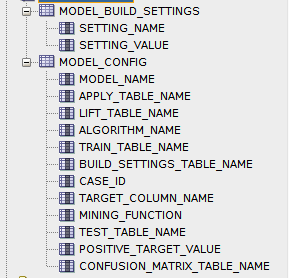
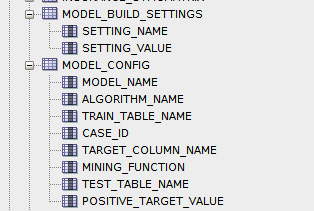
updates

Changed region(s): [[0.0623, 0.0, 0.9343, 0.9953], [0.0, 0.0, 0.0311, 1.0], [0.0623, 0.9668, 0.0934, 1.0]]

diff --git a/README.md b/README.md
@@ -104,23 +104,19 @@ end;
 
 execute immediate 'create table model_config ( '||
 'model_name				varchar2(100) '||
-', apply_table_name			varchar2(100) '||
-', lift_table_name			varchar2(100) '||
 ', algorithm_name			varchar2(100) '||
 ', train_table_Name			varchar2(100) '||
-', build_settings_table_name	varchar2(100) '||
 ', case_id				varchar2(100) '||
 ', target_column_name		VARCHAR2(100) '||
 ', mining_function			VARCHAR2(100) '||
 ', test_table_name			VARCHAR2(100) '||
-', positive_target_value		VARCHAR2(100) '||
-', confusion_matrix_table_name VARCHAR2(100))';
+', positive_target_value		VARCHAR2(100)) ';
 
-execute immediate 'insert into model_config values(''ALL_CASES_DT'',''ALL_CASES_APPLY_RESULT_DT'',''ALL_CASES_LIFT_DT'',''ALGO_DECISION_TREE'',''ALL_CASES_TRAIN_T'',''MODEL_BUILD_SETTINGS'',''INCIDENT_NUMBER'',''CATEGORIZATION_TIER_2'',''CLASSIFICATION'',''ALL_CASES'',''SW'',''ALL_CASES_CONFUSION_MATRIX_DT'')';
-execute immediate 'insert into model_config values(''ALL_CASES_SVM'',''ALL_CASES_APPLY_RESULT_SVM'',''ALL_CASES_LIFT_SVM'',''ALGO_SUPPORT_VECTOR_MACHINES'',''ALL_CASES_TRAIN_T'',''MODEL_BUILD_SETTINGS'',''INCIDENT_NUMBER'',''CATEGORIZATION_TIER_2'',''CLASSIFICATION'',''ALL_CASES'',''SW'',''ALL_CASES_CONFUSION_MATRIX_SVM'')';
-execute immediate 'insert into model_config values(''ALL_CASES_RF'',''ALL_CASES_APPLY_RESULT_RF'',''ALL_CASES_LIFT_RF'',''ALGO_RANDOM_FOREST'',''ALL_CASES_TRAIN_T'',''MODEL_BUILD_SETTINGS'',''INCIDENT_NUMBER'',''CATEGORIZATION_TIER_2'',''CLASSIFICATION'',''ALL_CASES'',''SW'',''ALL_CASES_CONFUSION_MATRIX_RF'')';
-execute immediate 'insert into model_config values(''ALL_CASES_NN'',''ALL_CASES_APPLY_RESULT_NN'',''ALL_CASES_LIFT_NN'',''ALGO_NEURAL_NETWORK'',''ALL_CASES_TRAIN_T'',''MODEL_BUILD_SETTINGS'',''INCIDENT_NUMBER'',''CATEGORIZATION_TIER_2'',''CLASSIFICATION'',''ALL_CASES'',''SW'',''ALL_CASES_CONFUSION_MATRIX_NN'')';
-execute immediate 'insert into model_config values(''ALL_CASES_NB'',''ALL_CASES_APPLY_RESULT_NB'',''ALL_CASES_LIFT_NB'',''ALGO_NAIVE_BAYES'',''ALL_CASES_TRAIN_T'',''MODEL_BUILD_SETTINGS'',''INCIDENT_NUMBER'',''CATEGORIZATION_TIER_2'',''CLASSIFICATION'',''ALL_CASES'',''SW'',''ALL_CASES_CONFUSION_MATRIX_NB'')';
+execute immediate 'insert into model_config values(''INSURANCE_DT'',''ALGO_DECISION_TREE'',''CUST_INSUR_LTV'',''CUST_ID'',''LTV_BIN'',''CLASSIFICATION'',''CUST_INSUR_LTV_APPLY'',''1'')';
+execute immediate 'insert into model_config values(''INSURANCE_SVM'',''ALGO_SUPPORT_VECTOR_MACHINES'',''CUST_INSUR_LTV'',''CUST_ID'',''LTV_BIN'',''CLASSIFICATION'',''CUST_INSUR_LTV_APPLY'',''1'')';
+execute immediate 'insert into model_config values(''INSURANCE_RF'',''ALGO_RANDOM_FOREST'',''CUST_INSUR_LTV'',''CUST_ID'',''LTV_BIN'',''CLASSIFICATION'',''CUST_INSUR_LTV_APPLY'',''1'')';
+execute immediate 'insert into model_config values(''INSURANCE_NN'',''ALGO_NEURAL_NETWORK'',''CUST_INSUR_LTV'',''CUST_ID'',''LTV_BIN'',''CLASSIFICATION'',''CUST_INSUR_LTV_APPLY'',''1'')';
+execute immediate 'insert into model_config values(''INSURANCE_NB'',''ALGO_NAIVE_BAYES'',''CUST_INSUR_LTV'',''CUST_ID'',''LTV_BIN'',''CLASSIFICATION'',''CUST_INSUR_LTV_APPLY'',''1'')';
 commit;
 
 END create_config;
@@ -131,17 +127,13 @@ PROCEDURE build_models IS
 
 TYPE model_config_rt IS RECORD (
 model_name				varchar2(100)
-, apply_table_name			varchar2(100)
-, lift_table_name			varchar2(100)
 , algorithm_name			varchar2(100)
 , train_table_Name			varchar2(100)
-, build_settings_table_name	varchar2(100)
 , case_id					varchar2(100)
 , target_column_name		VARCHAR2(100)
 , mining_function			VARCHAR2(100)
 , test_table_name			VARCHAR2(100)
-, positive_target_value		VARCHAR2(100)
-, confusion_matrix_table_name VARCHAR2(100));
+, positive_target_value		VARCHAR2(100));
 
 TYPE model_config_aat IS TABLE OF model_config_rt INDEX BY PLS_INTEGER;
  
@@ -156,15 +148,15 @@ BEGIN
 BEGIN
 EXECUTE IMMEDIATE 'select count(*) from model_config';
 
--- drop/create all_lift_data_cases table
+-- drop/create all_lift_data table
 
 begin
-execute immediate 'DROP TABLE all_cases_lift_data PURGE';
+execute immediate 'DROP TABLE all_lift_data PURGE';
 exception when others then null;
 end;
 
 begin
-execute immediate 'CREATE TABLE all_cases_lift_data (algo_name VARCHAR2(50), QUANTILE_NUMBER NUMBER, GAIN_CUMULATIVE NUMBER)';
+execute immediate 'CREATE TABLE all_lift_data (algo_name VARCHAR2(50), QUANTILE_NUMBER NUMBER, GAIN_CUMULATIVE NUMBER)';
 exception when others then null;
 end;
 
@@ -175,8 +167,8 @@ EXECUTE IMMEDIATE q'[select * from model_config]' BULK COLLECT INTO l_model_conf
 -- FOR i IN (select * from model_config) LOOP
 FOR i IN 1 .. l_model_config.COUNT LOOP
 
-execute immediate 'delete from '||l_model_config (i).build_settings_table_name||' where setting_name = ''ALGO_NAME''';
-execute immediate 'insert into '||l_model_config (i).build_settings_table_name||' select ''ALGO_NAME'', '''||l_model_config (i).algorithm_name||''' from dual';
+execute immediate 'delete from model_build_settings where setting_name = ''ALGO_NAME''';
+execute immediate 'insert into model_build_settings select ''ALGO_NAME'', '''||l_model_config (i).algorithm_name||''' from dual';
 
 begin
 dbms_data_mining.drop_model(l_model_config (i).model_name);
@@ -190,14 +182,14 @@ dbms_data_mining.create_model(
 	data_table_name	=> l_model_config (i).train_table_name, 
 	case_id_column_name => l_model_config (i).case_id,
 	target_column_name	=> l_model_config (i).target_column_name, 
-	settings_table_name	=> l_model_config (i).build_settings_table_name);
+	settings_table_name	=> 'model_build_settings');
 end;
 
 -- drop apply result
 
 begin
-execute immediate 'drop table '||l_model_config (i).apply_table_name||' purge';
-execute immediate 'drop table '||l_model_config (i).lift_table_name||' purge';
+execute immediate 'drop table '||l_model_config (i).model_name||'_apply purge';
+execute immediate 'drop table '||l_model_config (i).model_name||'_lift purge';
 exception when others then null;
 end;
 
@@ -208,17 +200,17 @@ dbms_data_mining.apply(
 	model_name		=> l_model_config (i).model_name,
 	data_table_name	=> l_model_config (i).test_table_name,
 	case_id_column_name	=> l_model_config (i).case_id,
-	result_table_name	=> l_model_config (i).apply_table_name);
+	result_table_name	=> l_model_config (i).model_name||'_apply');
 exception when others then null;
 end;
 
 begin
 dbms_data_mining.compute_lift(
-	apply_result_table_name		=> l_model_config (i).apply_table_name,
+	apply_result_table_name		=> l_model_config (i).model_name||'_apply',
 	target_table_name			=> l_model_config (i).test_table_name,
 	case_id_column_name			=> l_model_config (i).case_id,
 	target_column_name			=> l_model_config (i).target_column_name,
-	lift_table_name			    => l_model_config (i).lift_table_name,
+	lift_table_name			=> l_model_config (i).model_name||'_lift',
 	positive_target_value		=> l_model_config (i).positive_target_value,
 	score_column_name			=> 'PREDICTION',
 	score_criterion_column_name => 'PROBABILITY',
@@ -227,25 +219,25 @@ exception when others then null;
 end;
 
 begin
-execute immediate 'insert into all_cases_lift_data select '''||l_model_config (i).algorithm_name||''', QUANTILE_NUMBER, GAIN_CUMULATIVE from '||l_model_config (i).lift_table_name;
+execute immediate 'insert into all_lift_data select '''||l_model_config (i).algorithm_name||''', QUANTILE_NUMBER, GAIN_CUMULATIVE from '||l_model_config (i).model_name||'_lift';
 exception when others then null;
 end;
 
 -- build confusion matrix table
 
 begin
-EXECUTE IMMEDIATE 'drop table '||l_model_config (i).confusion_matrix_table_name;
+EXECUTE IMMEDIATE 'drop table '||l_model_config (i).model_name||'_cmatrix';
 exception when others then null;
 end;
 
 begin
 DBMS_DATA_MINING.COMPUTE_CONFUSION_MATRIX (
 	accuracy                     => v_accuracy,
-	apply_result_table_name      => l_model_config (i).apply_table_name,
+	apply_result_table_name      => l_model_config (i).model_name||'_apply',
 	target_table_name            => l_model_config (i).test_table_name,
 	case_id_column_name          => l_model_config (i).case_id,
 	target_column_name           => l_model_config (i).target_column_name,
-	confusion_matrix_table_name  => l_model_config (i).confusion_matrix_table_name,
+	confusion_matrix_table_name  => l_model_config (i).model_name||'_cmatrix',
 	score_column_name            => 'PREDICTION',
 	score_criterion_column_name  => 'PROBABILITY',
 	score_criterion_type         => 'PROBABILITY');
